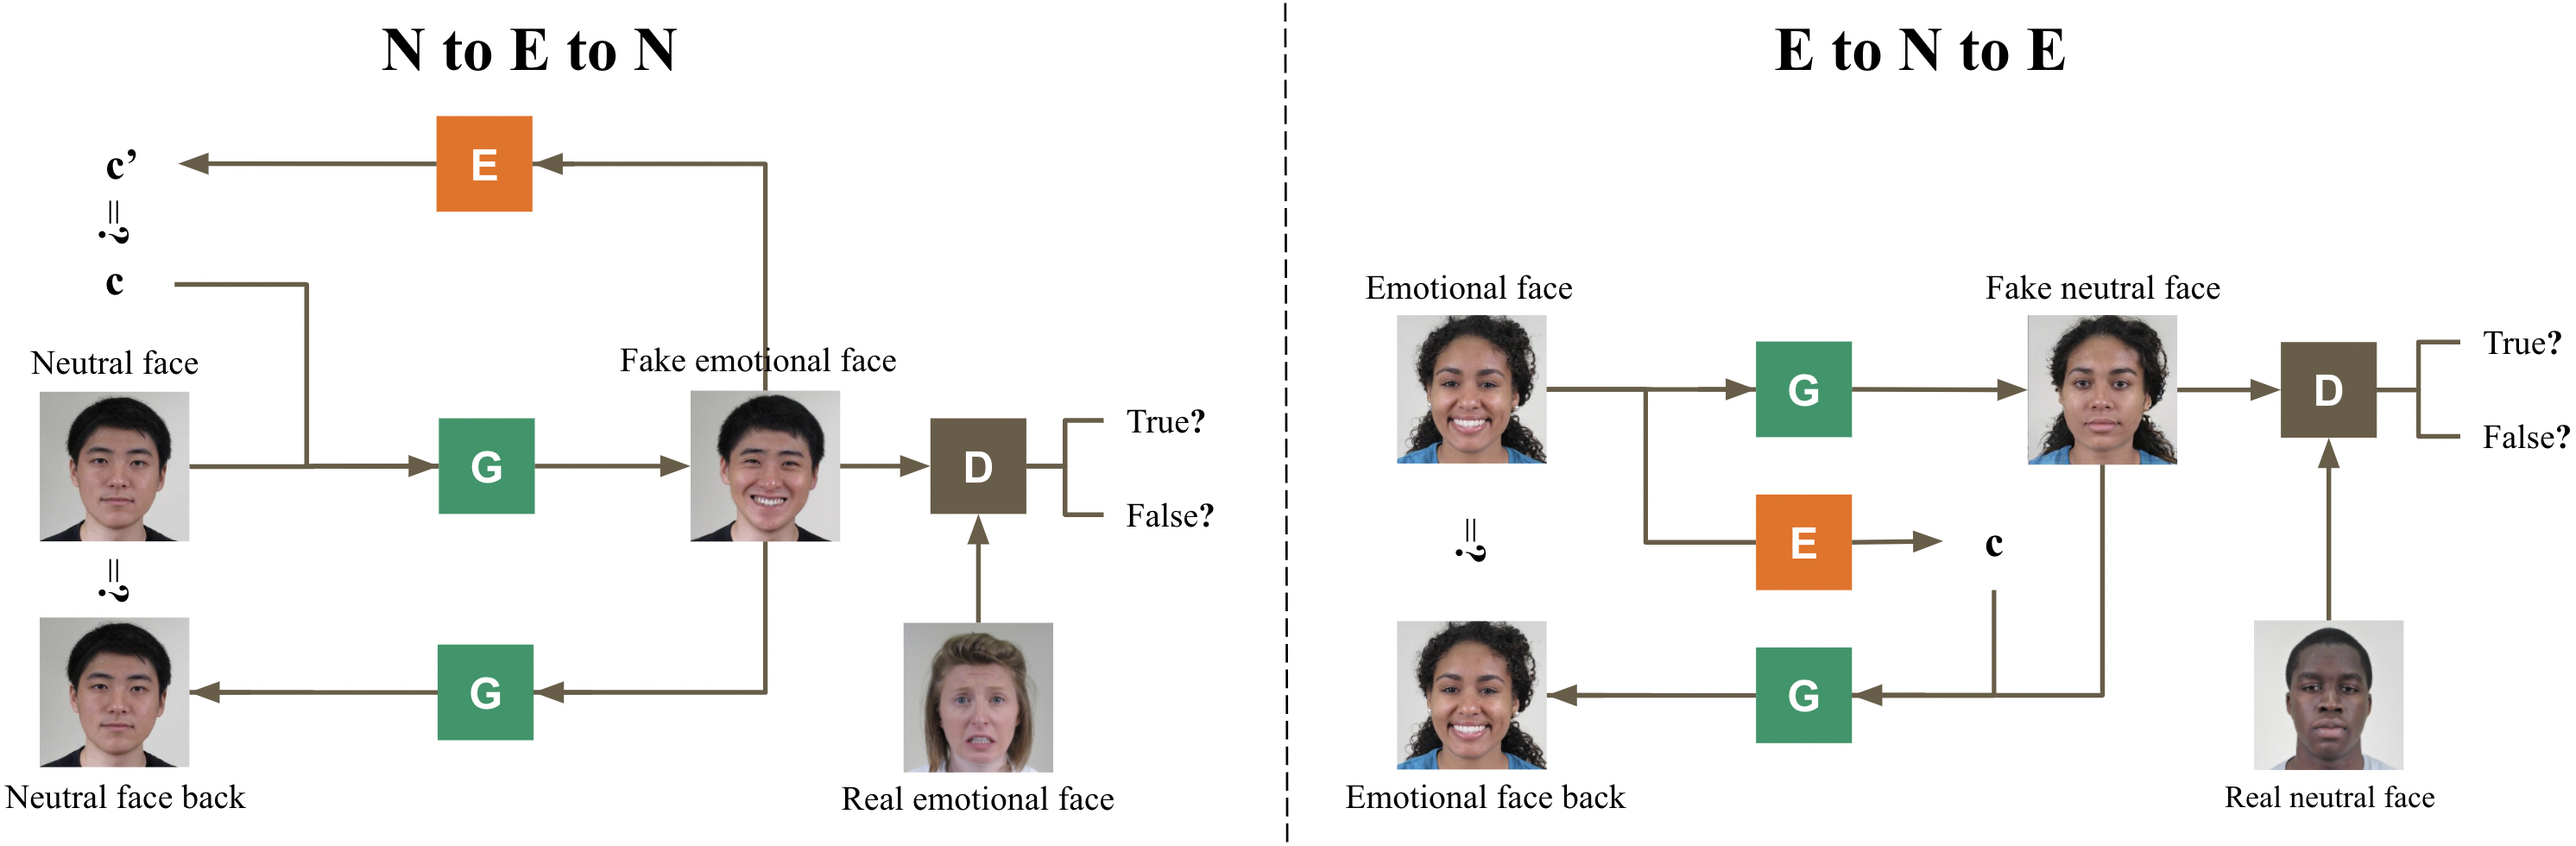
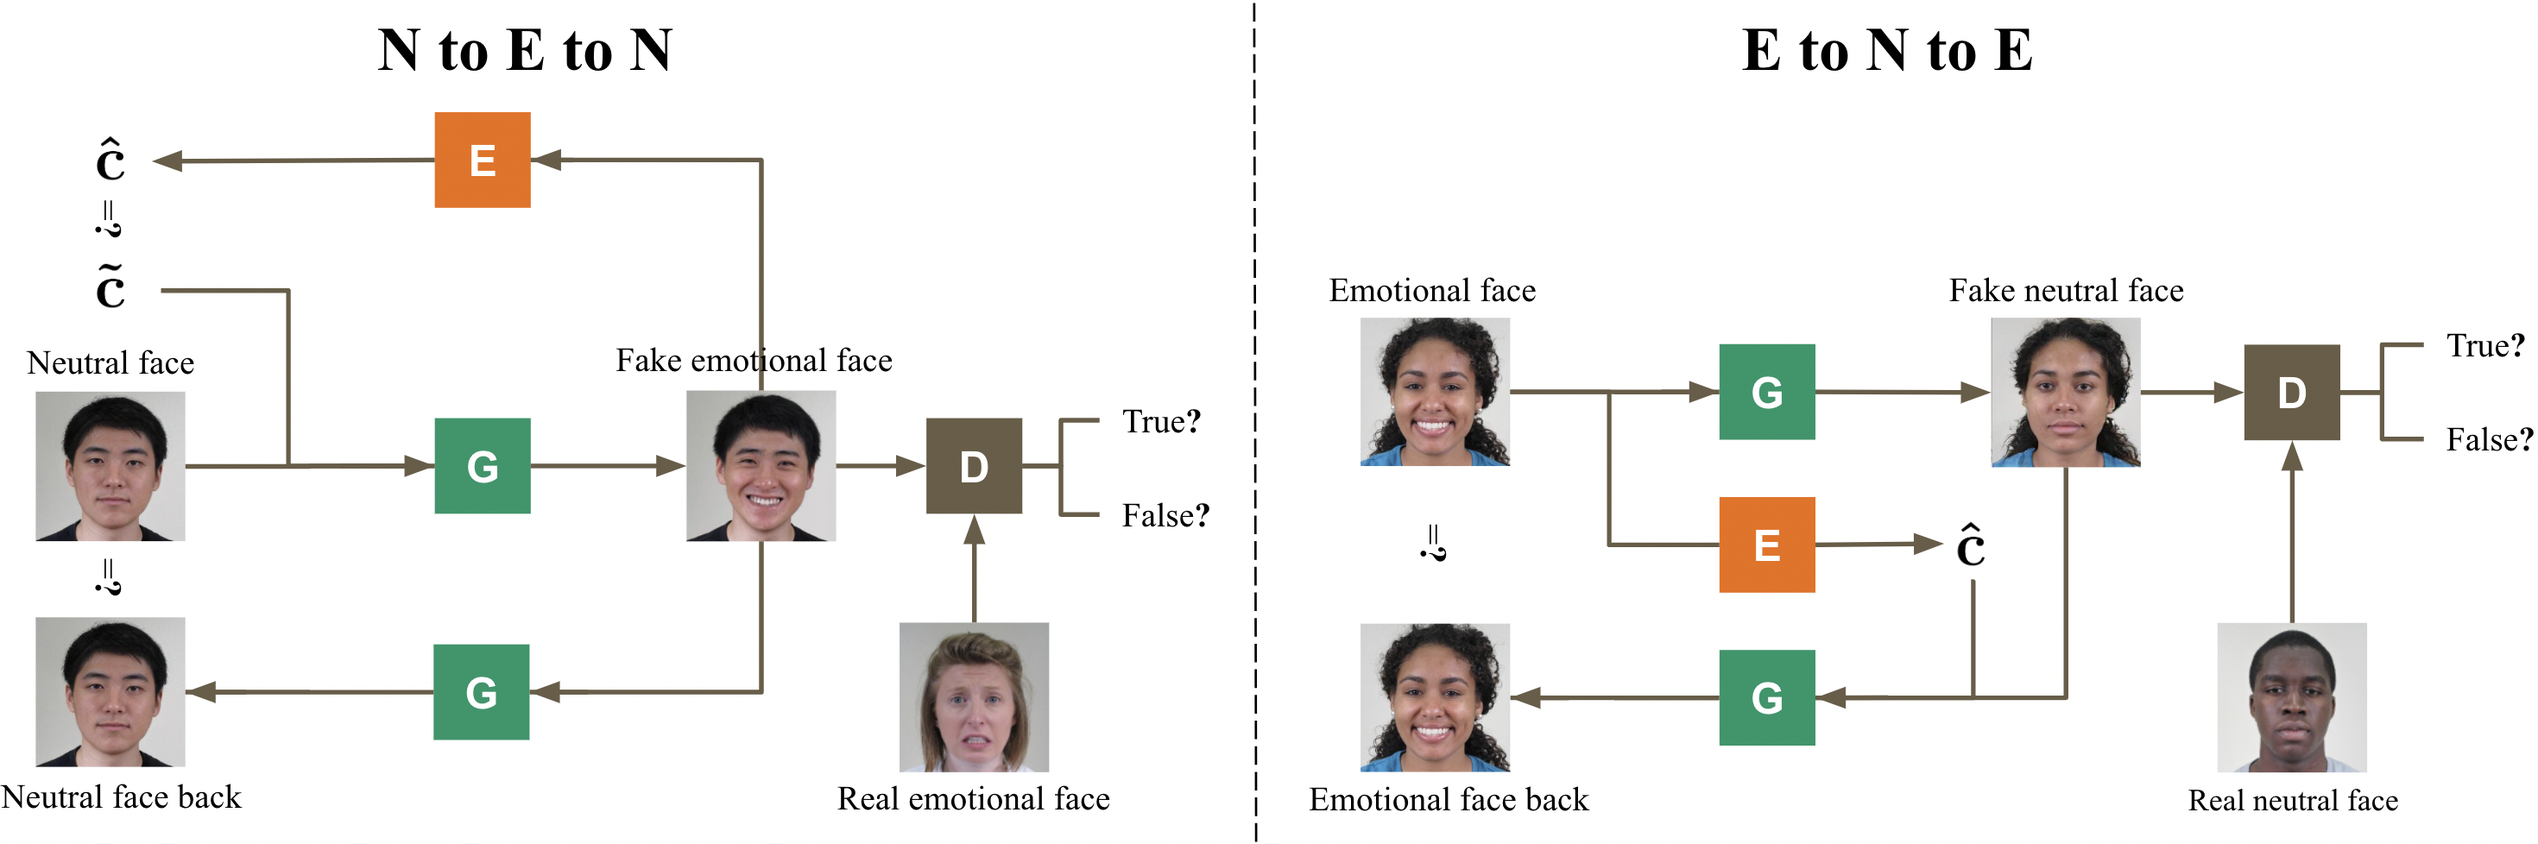
demo

diff --git a/Model.py b/Model.py
@@ -62,7 +62,7 @@ class ResBlk(nn.Module):
         return x / math.sqrt(2)  # unit variance
 
 
-# adaptive instance normalization to inject s into G
+# adaptive instance normalization to inject c into G
 class AdaIN(nn.Module):
     def __init__(self, code_dim, num_features):  # num_features relate to the image
         super().__init__()
